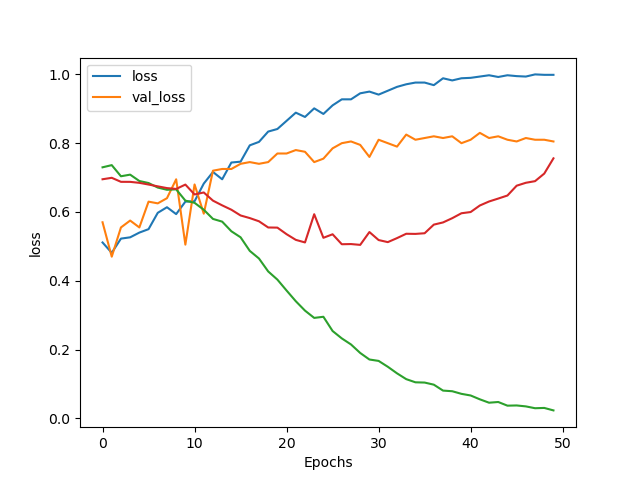
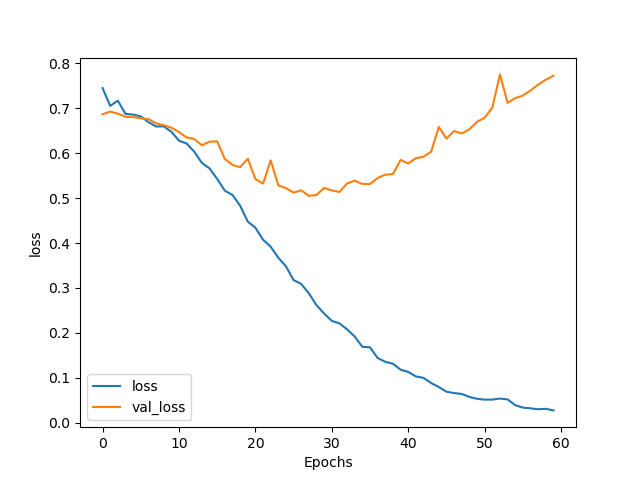
update glove preprocessing

diff --git a/sentiment_analysis.py b/sentiment_analysis.py
@@ -17,6 +17,7 @@ import pandas as pd
 from datetime import datetime
 
 import nltk
+import string
 from nltk.stem.porter import PorterStemmer
 from nltk.stem.lancaster import LancasterStemmer
 from nltk.stem import SnowballStemmer
@@ -27,8 +28,9 @@ from string import punctuation
 from os import listdir
 from os.path import isfile, join
 
-from sklearn.model_selection import train_test_split
+from sklearn.model_selection import train_test_split, StratifiedKFold
 from sklearn.feature_extraction.text import CountVectorizer
+from sklearn import preprocessing
 
 from scipy.sparse import csr_matrix, hstack
 
@@ -89,6 +91,7 @@ def plot_graphs(history, string, method):
     plt.legend([string, 'val_'+string])
     # plt.show()
     plt.savefig(method + '_' + string + '.png')
+    plt.clf()
 
 def method_1_ann(X_train, X_test, y_train, y_test):
     """
@@ -131,7 +134,7 @@ def method_1_ann(X_train, X_test, y_train, y_test):
     correct_prediction = np.equal(pred_test_int, y_test.values)
     print(np.mean(correct_prediction))
 
-def preprocessing(df, vocab_size, max_length):
+def preprocessing_split(df, vocab_size, max_length):
     """
     docstring
     """
@@ -140,7 +143,7 @@ def preprocessing(df, vocab_size, max_length):
 
     # word to vector
     print("vocab size is", vocab_size)
-    tokenizer = tfds.features.text.SubwordTextEncoder.build_from_corpus(text,vocab_size,max_subword_length=5)
+    tokenizer = tfds.features.text.SubwordTextEncoder.build_from_corpus(text,vocab_size,max_subword_length=10)
     
     for i,sent in enumerate(text):
         text[i] = tokenizer.encode(sent)
@@ -160,13 +163,106 @@ def preprocessing(df, vocab_size, max_length):
 
     return train_seq, train_labels, test_seq, test_labels
 
+def tokenize(Doc):
+    stops = set(stopwords.words('english'))
+    puns = string.punctuation
+    if pd.notnull(Doc):
+        # 使用nltk.wordpunct_tokenize將Doc切開, 去掉停用字與標點符號，並轉小寫
+        tokens = nltk.wordpunct_tokenize(Doc)
+        words = [w.lower() for w in tokens if w not in stops and w not in puns]
+        return words
+    else:
+        return None
+
+def doc2vec(doc, word2vec):
+    if pd.notnull(doc):
+        # 使用剛剛定義好的tokenize函式tokenize doc，並指派到terms
+        # 找出每一個詞彙的代表向量(word2vec)
+        # 並平均(element-wise)所有出現的詞彙向量(注意axis=0)，作為doc的代表向量
+        terms = tokenize(doc)  ## 把類別tokenize成一個個的詞彙
+        termvecs = [word2vec.get(term) for term in terms if term in word2vec.keys()]
+        docvec = np.average(np.array(termvecs), axis=0)
+    
+    if np.sum(np.isnan(docvec)) > 0:
+        ## 若找不到對應的詞向量，則給一條全部為零的向量，長度為原詞彙代表向量的長度(vec_dimensions)
+        docvec=np.zeros(100, )  ## 先初始化一條向量，如果某個類別裡面的字都沒有在字典裡，那麼會回傳這條向量
+    return docvec
+
+def preprocessing_glove(df, vocab_size, max_length):
+    """
+    CountVectorizer
+    """
+    text = df['text'].tolist()
+    label = df['label'].tolist()
+    word_vec_mapping = {}
+    path = "./glove_model/glove.twitter.27B.100d.txt"
+    # 打開上述檔案，並將每一行中的第一個詞作為key，後面的數字做為向量，加入到word_vec_mapping
+    with open(path, 'r', encoding='utf8') as f:  ## 這個文檔的格式是一行一個字並配上他的向量，以空白鍵分隔
+        for line in f:  
+            tokens = line.split()
+            token = tokens[0]  ## 第一個token就是詞彙
+            vec = tokens[1:]  ## 後面的token向量
+            word_vec_mapping[token] = np.array(vec, dtype=np.float32)  ## 把整個model做成一個字典，以利查找字對應的向量
+
+    # vec_dimensions = len(word_vec_mapping.get('men'))
+    # print("vec_dimensions:", vec_dimensions)
+    # print("word_vec_mapping length:", len(list(word_vec_mapping.items())))
+    # print(doc2vec(text[2], word_vec_mapping))
+    # print(len(text))
+    
+    text_vecs = np.array([doc2vec(t, word_vec_mapping) for t in text])
+    print(text_vecs[1])
+
+    # norm = np.linalg.norm(text_vecs)
+    # text_vecs = text_vecs/norm
+
+    # print(text_vecs.shape)
+    # print(text_vecs[1])
+
+    data_scaler_minmax = preprocessing.MinMaxScaler(feature_range=(0, 100))
+    text_vecs = data_scaler_minmax.fit_transform(text_vecs).astype(int)
+    print(text_vecs[1])
+
+    # 切分訓練集與測試集
+    training_size=int(len(text)*0.8)
+
+    train_seq=text_vecs[:training_size]
+    test_seq=text_vecs[training_size:]
+
+    train_labels=np.array(label[:training_size])
+    test_labels=np.array(label[training_size:])
+    print("Total no of Training Sequence are",len(train_seq))
+    print("Total no of Test Sequence are",len(test_seq))
+
+    return train_seq, train_labels, test_seq, test_labels
+
+def preprocessing_no_split(df, vocab_size, max_length):
+    """
+    docstring
+    """
+    text = df['text'].tolist()
+    label = df['label'].tolist()
+
+    # word to vector
+    print("vocab size is", vocab_size)
+    tokenizer = tfds.features.text.SubwordTextEncoder.build_from_corpus(text,vocab_size,max_subword_length=5)
+    
+    for i,sent in enumerate(text):
+        text[i] = tokenizer.encode(sent)
+
+    X = pad_sequences(text,maxlen=max_length,padding ='post',truncating='post')
+
+    Y = np.array(label)
+
+    return X, Y
+
 def method_2_LSTM(df):
     """
     嘗試做 word to vector 之後使用 LSTM
     """
     vocab_size = 1000
     max_length = 50
-    train_seq, train_labels, test_seq, test_labels = preprocessing(df, vocab_size, max_length)
+    train_seq, train_labels, test_seq, test_labels = preprocessing_split(df, vocab_size, max_length)
 
     # Create model
     embedding_dim = 16
@@ -200,7 +296,11 @@ def method_3_Attention(df):
     """
     vocab_size = 1000
     max_length = 50
-    x_train, y_train, x_val, y_val = preprocessing(df, vocab_size, max_length)
+    x_train, y_train, x_val, y_val = preprocessing_split(df, vocab_size, max_length)
+    
+    # x_train, y_train, x_val, y_val = preprocessing_glove(df, vocab_size, max_length)# 可用在 SVM or Decision tree
+    
+    # X, Y = preprocessing_no_split(df, vocab_size, max_length)
 
     embed_dim = 40  # Embedding size for each token
     num_heads = 4  # Number of attention heads
@@ -219,34 +319,48 @@ def method_3_Attention(df):
 
     model = keras.Model(inputs=inputs, outputs=outputs)
 
-    # lr_schedule = keras.optimizers.schedules.ExponentialDecay(
-    #     initial_learning_rate=1e-2,
-    #     decay_steps=2,
-    #     decay_rate=0.9)
-    # optimizer = keras.optimizers.SGD(learning_rate=lr_schedule)
-    
+    lr_schedule = keras.optimizers.schedules.ExponentialDecay(
+        initial_learning_rate=1e-1,
+        decay_steps=5,
+        decay_rate=0.9
+    )
+    opt_sgd = keras.optimizers.SGD(learning_rate=lr_schedule, momentum=0.5)
+
+    opt_adagrad = tf.keras.optimizers.Adagrad(
+        learning_rate=0.0001,
+        initial_accumulator_value=0.1,
+        epsilon=1e-07,
+        name="Adagrad",
+    )
 
     # opt = keras.optimizers.Adam(learning_rate=0.001)
-    opt = tf.keras.optimizers.Adam(
+    opt_adam = tf.keras.optimizers.Adam(
         learning_rate=0.0001,
-        beta_1=0.9,
-        beta_2=0.999,
+        beta_1=0.85,
+        beta_2=0.99,
         epsilon=1e-07,
         amsgrad=True,
         name="Adam"
     )
 
-    model.compile(optimizer=opt, loss="sparse_categorical_crossentropy", metrics=["accuracy"])
+    opt_adadelta = tf.keras.optimizers.Adadelta(
+        learning_rate=0.1, rho=0.9, epsilon=1e-07, name="Adadelta"
+    )
+    # loss: categorical_crossentropy, sparse_categorical_crossentropy
+    model.compile(optimizer=opt_adam, loss="sparse_categorical_crossentropy", metrics=["accuracy"])
+    
     # model.compile("adam", "binary_crossentropy", metrics=["accuracy"])
-
-    # my_callbacks = [
-    # tf.keras.callbacks.EarlyStopping(patience=6),
-    # tf.keras.callbacks.ModelCheckpoint(filepath='model.{epoch:02d}-{val_loss:.2f}.h5',monitor='val_loss',mode='auto',save_best_only=True),
-    # ]
     
     history = model.fit(
-        x_train, y_train, batch_size=32, epochs=50, validation_data=(x_val, y_val)#,callbacks=my_callbacks
+        x_train, y_train, batch_size=32, epochs=60, validation_data=(x_val, y_val)#,callbacks=my_callbacks
     )
+
+    # model.save('./model.h5')
+
+    # 自動切割 validation set
+    # history = model.fit(
+    #     X, Y, batch_size=32, epochs=60, validation_split=0.2
+    # )
 
     plot_graphs(history, "accuracy", 'Attention')
     plot_graphs(history, "loss", 'Attention')
